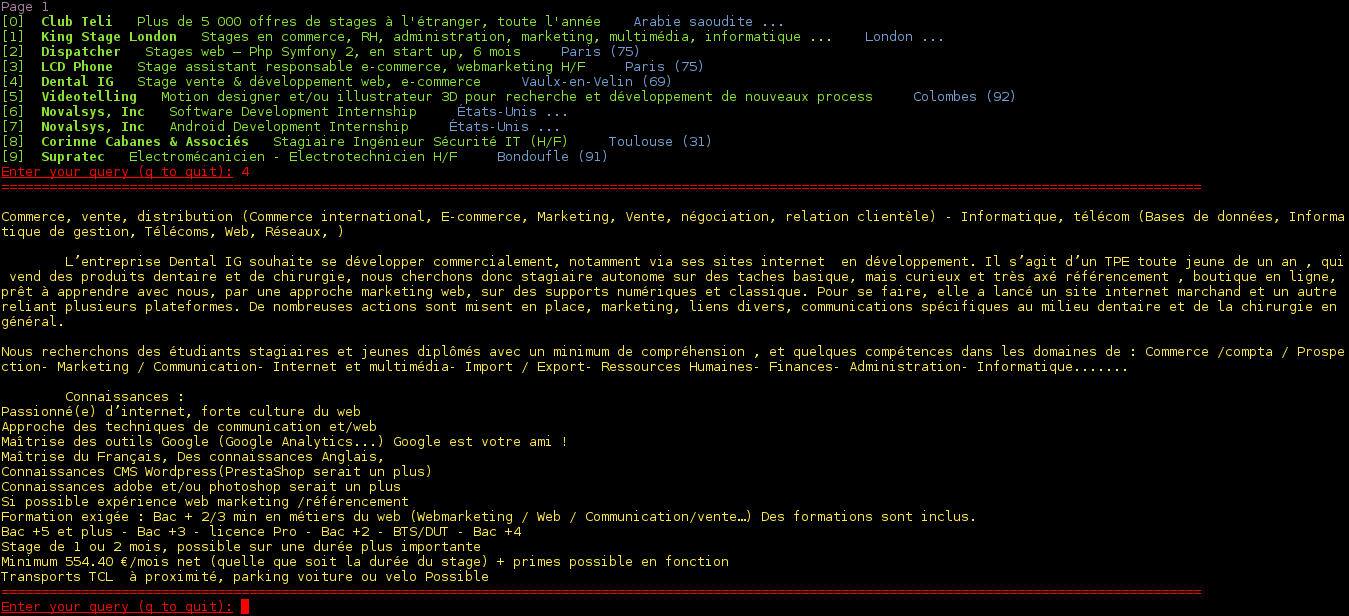
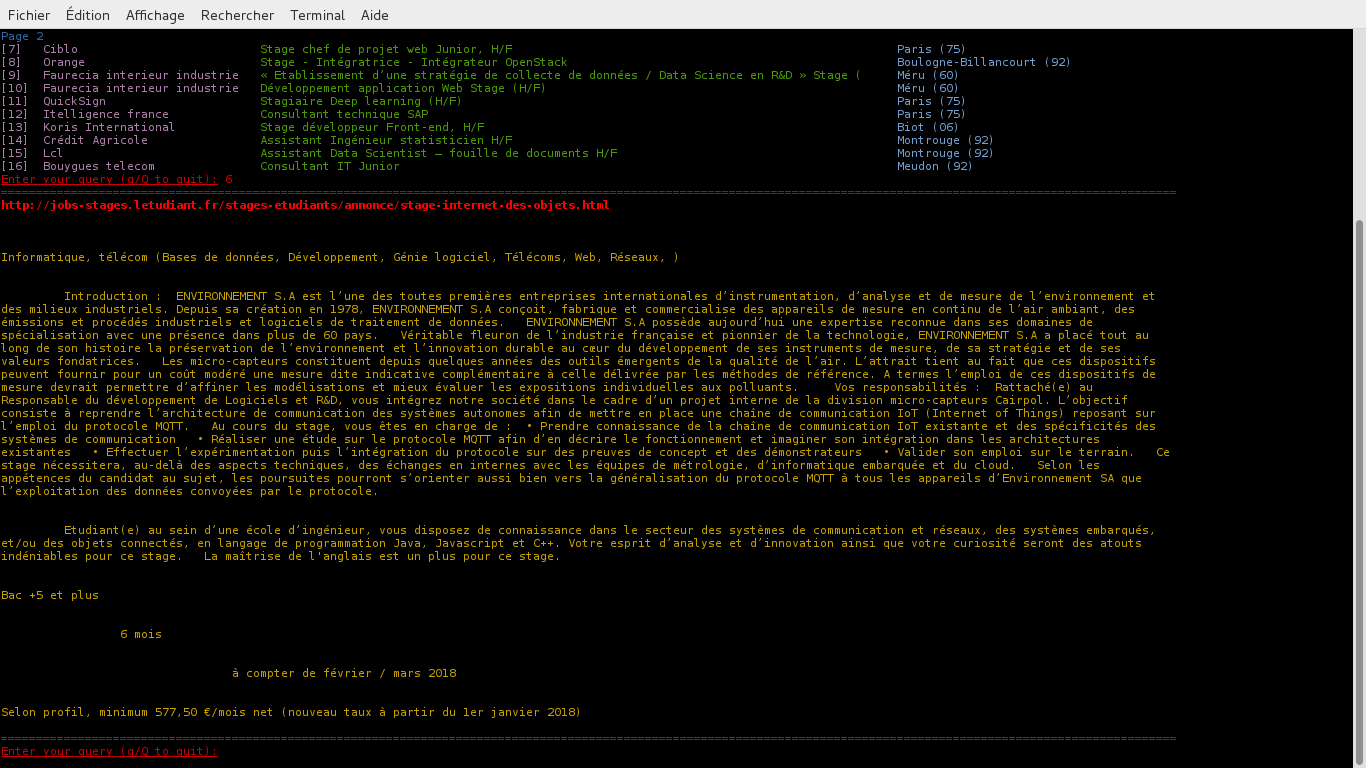
Update screenshots
Closes #12.

Changed region(s): [[0.0, 0.0, 1.0, 1.0], [0.4981, 0.8945, 0.5293, 0.9253]]

diff --git a/README.md b/README.md
@@ -6,7 +6,7 @@ I had the idea of writing this utility script when I was fed up with checking ev
 
 This Python script fetches available internship offers based on the user's criteria from [letudiant](http://letudiant.fr), a famous French magazine dedicated to students. It then displays the results on the terminal:
 
-![alt tag](https://raw.githubusercontent.com/Marrakchino/letudiant-cli-offer-scrapper/master/res/screenshot_2017-12-24%2017-18-13.png)
+![alt tag](https://raw.githubusercontent.com/Marrakchino/letudiant-cli-offer-scrapper/master/res/screenshot_2018-01-20.png)
 
 ## Install
 
